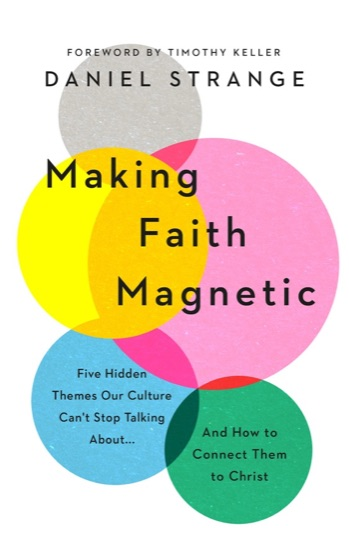
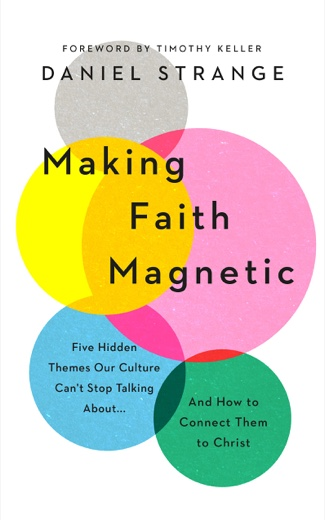
Re-encode covers: single pass, adaptive quality, no upscaling
Covers were previously downscaled twice (900px then 560px), stacking JPEG
generations. Rebuilt from the publishers' originals with one encode each at
520px — 2x the 258px display box — choosing the highest quality from q88 down
that fits a ~50KB budget, so flat jackets keep q88 and only busy photographic
ones drop to q64.

Cover 07 came from a 316x445 Amazon thumbnail and was being stretched; pulled
its 324x500 original instead and capped every image at its native height.

Total 553KB across 12 covers (avg 46KB), lazy-loaded, ~5 visible at a time.

diff --git a/covers/README.md b/covers/README.md
@@ -21,11 +21,16 @@ Notes:
 - **Shape**: anything. Every cover is displayed in the same fixed box and
   scaled to fit inside it, so nothing is cropped and nothing changes the
   layout — an unusually wide or tall jacket just sits on a thin mat.
-- **Size**: ~370×560 px is plenty (the covers here are 560 px tall). Keep each
-  file under ~100 KB so the page stays quick on phones.
+- **Size**: 520 px tall — twice the 258 px box the page draws them in, which
+  is what a retina screen needs and no more. Aim for under ~50 KB each.
 - **Formats**: `.jpg`, `.png`, and `.webp` all work. To convert and shrink one
-  on a Mac without extra tools:
-  `sips -s format jpeg -s formatOptions 80 -Z 560 in.webp --out covers/out.jpg`
+  on a Mac, no extra tools needed:
+  `sips -s format jpeg -s formatOptions 82 -Z 520 in.webp --out covers/out.jpg`
+  Drop `82` toward `64` if the file lands much over 50 KB — busy photographic
+  jackets need it, flat designs don't. Encode straight from the publisher's
+  original rather than re-saving one of these files; each JPEG pass loses a
+  little. And don't feed it a source shorter than 520 px: `-Z` will happily
+  stretch a thumbnail, which costs bytes and adds no detail.
 - **Missing a cover?** Leave `cover: ""` or just point at a file that isn't here
   yet — the page draws a typographic cover with the title and author instead,
   so nothing breaks and nothing looks empty.
